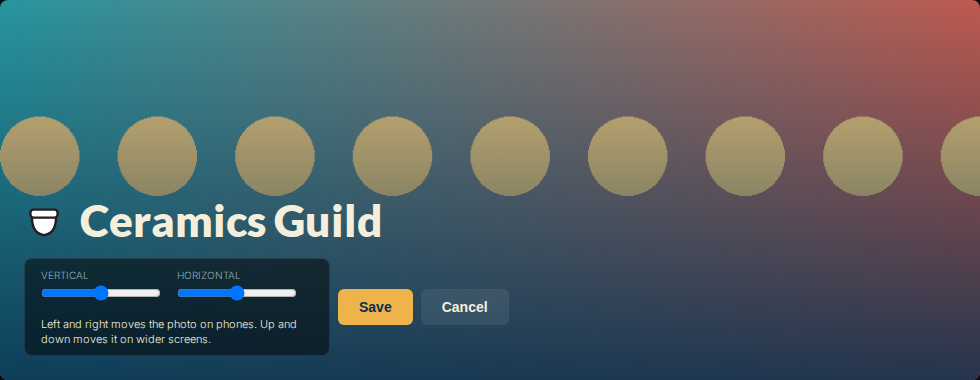
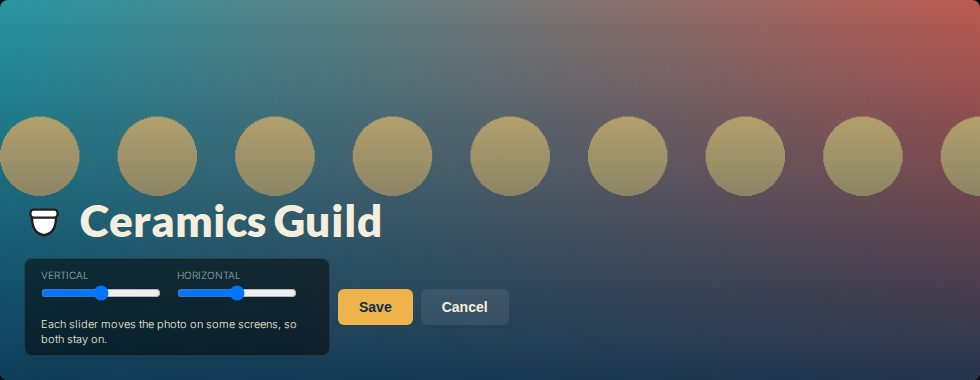
Say only what is always true, and guard the frame ranges
When both sliders stay on, the line now says each moves the photo on some screens:
a 4:3 photo moves up and down on most phones too, so naming phones was wrong. The
narrow bound is 0.25 on all three pages, since typed titles and intros make a phone
frame taller with no limit. A new e2e loads each page with long text at four widths,
on both hosts where it renders, and fails if a frame falls outside its stated range.

Claude-Session: fog-feature-round 2026-10-03

Changed region(s): [[0.0306, 0.8395, 0.3061, 0.9263]]

diff --git a/templates/classes/public/detail.html b/templates/classes/public/detail.html
@@ -67,12 +67,13 @@ appends and runs it on the first boosted arrival here (FRONTEND.md, Scripts unde
            alt="{{ offering.title }}">
       {% endwith %}
     {% elif offering.category.hero_image %}
-      {# Frame shapes this hero takes, width over height (heroPlacement): at most 2.38 (1240 by 520, .cp-detail__hero in cms-public.css), and a long title makes a phone frame taller (1.03 at 320px with a short one), so 0.5 to 2.5 keeps a margin both ways. #}
+      {# Frame shapes, width over height (heroPlacement), as measured: widest 2.38 (1240 by 520, .cp-detail__hero in cms-public.css); at 320px 1.03 with a short title and 0.65 with a 108 character title and 150 character subtitle, and a title runs to 255, so the floor is 0.25. tests/e2e/hero_placement_slack_spec.py checks these. #}
       <img class="cp-detail__hero-img cp-detail__hero-img--cover"
            src="{{ offering.category.hero_image.url }}"
            alt="{{ offering.category.name }}"
+           data-frame-min="0.25" data-frame-max="2.5"
            {% if can_edit_category %}
-           data-hero-img data-frame-min="0.5" data-frame-max="2.5"
+           data-hero-img
            :style="'object-position: ' + objectPosition"
            {% else %}
            style="object-position: {{ offering.category.hero_object_position }};"
@@ -188,7 +189,7 @@ appends and runs it on the first boosted arrival here (FRONTEND.md, Scripts unde
                 <span x-text="isLoading ? '...' : 'Adjust'"></span>
             </button>
 
-            {# Sliders. heroPlacement.measure() turns off a slider that moves nothing on any screen, and the line under them says where each one moves. #}
+            {# Sliders. heroPlacement.measure() turns off a slider that moves nothing on any screen, and the line under them says which are on and why. #}
             <div x-show="isAdjusting" x-cloak class="pl-hero-adjust" style="display:flex; align-items:center; gap:0.75rem; background:rgba(0,0,0,0.7); padding:6px 10px; border-radius:6px; border:1px solid rgba(255,255,255,0.2); backdrop-filter:blur(8px);">
                 <div style="display:flex; align-items:center; gap:8px;">
                     <label for="hero-adjust-y" style="font-size:9px; text-transform:uppercase; color:#96ACBB; font-weight:bold;">V</label>

diff --git a/templates/hub/help.html b/templates/hub/help.html
@@ -39,12 +39,13 @@ OrgInfoPage.intro_parts, and admins keep Edit this page / Adjust in the top corn
      })"
      {% endif %}>
     {% if page.banner_image %}
-    {# Frame shapes this hero takes, width over height (heroPlacement): at most 3.26 (1240 by 380, .pl-guild-hero in hub.css), and the intro makes a phone frame taller (0.68 at 320px on the guilds site), so 0.5 to 3.4 keeps a margin both ways. #}
+    {# Frame shapes, width over height (heroPlacement), as measured: widest 3.26 on the members site (1240 by 380, .pl-guild-hero in hub.css) and 2.98 on the guilds site; at 320px 0.79 with the default intro and 0.44 with a 400 character one, and the intro has no length limit, so the floor is 0.25. tests/e2e/hero_placement_slack_spec.py checks these. #}
     <img class="pl-guild-hero__img"
          src="{{ page.banner_image.url }}"
          alt="Past Lives Makerspace"
+         data-frame-min="0.25" data-frame-max="3.4"
          {% if can_edit %}
-         data-hero-img data-frame-min="0.5" data-frame-max="3.4"
+         data-hero-img
          :style="'object-position: ' + objectPosition"
          {% else %}
          style="object-position: {{ page.hero_object_position }};"
@@ -61,7 +62,7 @@ OrgInfoPage.intro_parts, and admins keep Edit this page / Adjust in the top corn
             </svg>
             <span x-text="isLoading ? '...' : 'Adjust'"></span>
         </button>
-        {# heroPlacement.measure() turns off a slider that moves nothing on any screen, and the line under them says where each one moves. #}
+        {# heroPlacement.measure() turns off a slider that moves nothing on any screen, and the line under them says which are on and why. #}
         <div x-show="isAdjusting" x-cloak class="pl-hero-adjust" style="background:rgba(0,0,0,0.5); padding:0.5rem 1rem; border-radius:8px; border:1px solid rgba(255,255,255,0.1);">
             <div style="display:flex; flex-direction:column; gap:2px;">
                 <label for="hero-adjust-y" style="font-size:10px; text-transform:uppercase; color:#96ACBB;">Vertical</label>

diff --git a/templates/hub/guild_detail.html b/templates/hub/guild_detail.html
@@ -39,12 +39,13 @@
      })"
      {% endif %}>
     {% if guild.banner_image %}
-        {# Frame shapes this hero takes, width over height (heroPlacement): at most 3.26 (1240 by 380, .pl-guild-hero in hub.css), and a long name makes a phone frame taller (0.75 at 320px), so 0.5 to 3.4 keeps a margin both ways. #}
+        {# Frame shapes, width over height (heroPlacement), as measured: widest 3.26 here (1240 by 380, .pl-guild-hero in hub.css) and 2.98 on the guilds site; at 320px 1.31 with a short name and 0.59 with a 100 character one, and a name runs to 255, so the floor is 0.25. tests/e2e/hero_placement_slack_spec.py checks these. #}
         <img class="pl-guild-hero__img"
              src="{{ guild.banner_image.url }}"
              alt="{{ guild.name }}"
+             data-frame-min="0.25" data-frame-max="3.4"
              {% if guild.banner_image and can_edit_this_guild %}
-             data-hero-img data-frame-min="0.5" data-frame-max="3.4"
+             data-hero-img
              :style="'object-position: ' + objectPosition"
              {% else %}
              style="object-position: {{ guild.hero_object_position }};"
@@ -81,7 +82,7 @@
                     <span x-text="isLoading ? '...' : 'Adjust'"></span>
                 </button>
 
-                {# Sliders. heroPlacement.measure() turns off a slider that moves nothing on any screen, and the line under them says where each one moves. #}
+                {# Sliders. heroPlacement.measure() turns off a slider that moves nothing on any screen, and the line under them says which are on and why. #}
                 <div x-show="isAdjusting" x-cloak class="pl-hero-adjust" style="background:rgba(0,0,0,0.5); padding:0.5rem 1rem; border-radius:8px; border:1px solid rgba(255,255,255,0.1);">
                     <div style="display:flex; flex-direction:column; gap:2px;">
                         <label for="hero-adjust-y" style="font-size:10px; text-transform:uppercase; color:#96ACBB;">Vertical</label>

diff --git a/static/js/hero_placement.js b/static/js/hero_placement.js
@@ -10,8 +10,10 @@
  * every screen, from a tall phone frame to a wide desktop one, so which axis is dead changes
  * with the screen. Each template states the range of frame shapes its CSS can produce
  * (data-frame-min and data-frame-max, width over height) and measure() compares the photo's
- * own shape with it: a slider is off only when it moves nothing on every screen, and when
- * both move somewhere why() says where each one does. The editor's own frame plays no part.
+ * own shape with it: a slider is off only when it moves nothing on every screen, and why()
+ * says so. Which screens each live slider moves it on depends on the photo (a 4:3 photo moves
+ * up and down on most phones too), so when both are on the line only says that each one moves
+ * it somewhere. The editor's own frame plays no part.
  */
 (function () {
     "use strict";
@@ -20,7 +22,7 @@
     const WHY = {
         x: "This photo already fits side to side on every screen, so only up and down moves it.",
         y: "This photo already fits top to bottom on every screen, so only left and right moves it.",
-        where: "Left and right moves the photo on phones. Up and down moves it on wider screens.",
+        both: "Each slider moves the photo on some screens, so both stay on.",
     };
 
     const registerComponent = () => {
@@ -107,7 +109,7 @@
                 if (!this.measured) { return ""; }
                 if (!this.xMoves) { return WHY.x; }
                 if (!this.yMoves) { return WHY.y; }
-                return WHY.where;
+                return WHY.both;
             },
 
             startAdjusting() {

diff --git a/static/css/components.css b/static/css/components.css
@@ -2059,8 +2059,8 @@
 }
 
 /* ===== Hero placement sliders (hero_placement.js: guild banner, Help Center banner, class page category hero) ===== */
-/* The bar (.pl-hero-adjust, hub.css) wraps so the line saying where each slider moves the
-   photo sits on its own row under the sliders. The line takes no width of its own (contain), so it wraps
+/* The bar (.pl-hero-adjust, hub.css) wraps so the line saying which sliders move the photo
+   sits on its own row under the sliders. The line takes no width of its own (contain), so it wraps
    inside the width the sliders give the bar instead of stretching it. The bar is dark in
    both themes, so the line is light in both. */
 .pl-hero-adjust {

diff --git a/tests/e2e/hero_placement_slack_spec.py b/tests/e2e/hero_placement_slack_spec.py
@@ -1,4 +1,4 @@
-"""End-to-end: the hero Adjust sliders say where each one moves the photo.
+"""End-to-end: the hero Adjust sliders turn off only when they move nothing on any screen.
 
 The guild banner, the Help Center banner and the class page's category hero are cover
 fitted, so in any one frame a photo overflows on one axis only. These frames are fluid and
@@ -7,8 +7,10 @@ phone frame moves a 2:1 photo sideways, a wide desktop frame moves it up and dow
 template states the frame shapes its CSS can produce (``data-frame-min`` and
 ``data-frame-max`` on the img) and ``hero_placement.js`` ``measure()`` compares the photo's
 shape with that range: a slider is disabled only when it moves nothing on every screen, and
-otherwise the line under the sliders says where each one moves. The editor's own screen
-plays no part. Only a browser decodes the photo and runs the component, so this drives the
+the line under the sliders says which are on and why. The editor's own screen plays no part.
+The ranges are copied by hand from the CSS, so the last block loads each page with long text
+at a phone width and past the content cap and checks the frame stays inside its range. Only
+a browser decodes the photo, lays out the frame and runs the component, so this drives the
 real page. Run with ``pytest -m e2e``.
 """
 
@@ -40,7 +42,7 @@ PHONE: ViewportSize = {"width": 390, "height": 844}
 
 X_DEAD = "This photo already fits side to side on every screen, so only up and down moves it."
 Y_DEAD = "This photo already fits top to bottom on every screen, so only left and right moves it."
-WHERE = "Left and right moves the photo on phones. Up and down moves it on wider screens."
+BOTH_ON = "Each slider moves the photo on some screens, so both stay on."
 
 
 def _png(name: str, width: int, height: int) -> ContentFile:
@@ -84,9 +86,9 @@ def describe_hero_placement_slack():
     def it_keeps_both_sliders_on_for_a_photo_that_moves_each_way_on_some_screen(
         live_server, page: Page, login_via_code, serve_media
     ):
-        # 2:1 sits inside the guild frame's range (0.5 to 3.4): a phone frame moves it sideways,
-        # a desktop frame up and down. Both stay on and the line says where each moves, the
-        # same on a desktop and a phone, because the editor's own frame plays no part.
+        # 2:1 sits inside the guild frame's range (0.25 to 3.4): a phone frame moves it sideways,
+        # a desktop frame up and down. Both stay on and the line says so, the same on a desktop
+        # and a phone, because the editor's own frame plays no part.
         guild = _guild(1000, 500)
         _sign_in_as_admin(login_via_code)
         for viewport in (DESKTOP, PHONE):
@@ -96,7 +98,7 @@ def describe_hero_placement_slack():
             down, across = _open_adjust(page)
             expect(down).to_be_enabled()
             expect(across).to_be_enabled()
-            expect(page.locator(WHY)).to_have_text(WHERE)
+            expect(page.locator(WHY)).to_have_text(BOTH_ON)
             # The line is tied to both sliders for keyboard and screen reader users.
             expect(down).to_have_attribute("aria-describedby", "hero-adjust-why")
             expect(across).to_have_attribute("aria-describedby", "hero-adjust-why")
@@ -121,10 +123,10 @@ def describe_hero_placement_slack():
     def it_turns_off_left_and_right_for_a_tall_photo_and_keeps_and_saves_its_saved_position(
         live_server, page: Page, login_via_code, serve_media
     ):
-        # 2:5 is narrower than the narrowest guild frame: width fitted everywhere, so left and
-        # right is off. The position saved before (20% across) still shows on the disabled
+        # 1:5 is narrower than the narrowest guild frame (0.25): width fitted everywhere, so
+        # left and right is off. The position saved before (20% across) still shows on the disabled
         # slider and rides the save untouched.
-        guild = _guild(400, 1000, hero_crop_x=20, hero_crop_y=50)
+        guild = _guild(300, 1500, hero_crop_x=20, hero_crop_y=50)
         _sign_in_as_admin(login_via_code)
         page.set_viewport_size(DESKTOP)
         page.goto(_guild_url(live_server, guild))
@@ -204,3 +206,86 @@ def describe_hero_placement_slack():
         expect(down).to_be_disabled()
         expect(across).to_be_enabled()
         expect(page.locator(WHY)).to_have_text(Y_DEAD)
+
+
+# Long content makes a phone frame taller (a narrower shape) than any default text would.
+LONG_GUILD_NAME = "The Portland Community Guild of Metalsmithing, Silversmithing, Lost Wax Casting and Enameling Arts"
+LONG_HELP_INTRO = (
+    "Guides to how the makerspace works, from booking an orientation and reserving a studio to paying a "
+    "late fee, plus parking and arrival, who to contact for what, the answers to the questions we get "
+    "asked most, and where to look when a tool is down, a class is cancelled or a key card stops working. "
+    "If you cannot find something here, ask in Discord and a volunteer will point you to the right page."
+)
+LONG_CLASS_TITLE = (
+    "Forge a Leaf Dish at the Anvil, Then Patina, Polish and Seal It for the Table in One Long Saturday Afternoon"
+)
+LONG_CLASS_SUBTITLE = (
+    "Pick Your October Time, Saturday or Sunday, Morning or Evening, Bring a Friend and Leave with a "
+    "Finished Leaf Dish of Your Own Design and Fresh Patina"
+)
+# A phone, the widest phone frame on the guild pages (the sidebar folds away below 900px),
+# and two desktops past the 1240px content cap.
+RANGE_WIDTHS = (320, 768, 1920, 2560)
+
+
+# The range rides every hero img, not only the editor's: on the guilds site an admin has no
+# Adjust bar, but visitors there see the same banner the saved position serves.
+RANGED_IMG = "img[data-frame-min]"
+
+
+def _frame_and_range(page: Page) -> tuple[float, float, float]:
+    """The hero img's shape (width over height) and the range its template states."""
+    shape, fmin, fmax = page.locator(RANGED_IMG).evaluate(
+        "img => [img.clientWidth / img.clientHeight, parseFloat(img.dataset.frameMin), parseFloat(img.dataset.frameMax)]"
+    )
+    return float(shape), float(fmin), float(fmax)
+
+
+def _assert_frames_in_range(page: Page, url: str, label: str) -> None:
+    for width in RANGE_WIDTHS:
+        page.set_viewport_size({"width": width, "height": 900})
+        page.goto(url)
+        page.wait_for_function(
+            f"() => {{ const img = document.querySelector('{RANGED_IMG}'); return !!(img && img.complete && img.naturalWidth); }}"
+        )
+        shape, fmin, fmax = _frame_and_range(page)
+        print(f"RANGE {label} {width}px shape {shape:.2f} range {fmin} to {fmax}")
+        assert fmin <= shape <= fmax, f"{label} at {width}px is {shape:.2f}, outside {fmin} to {fmax}"
+
+
+def describe_the_frame_range_each_template_states():
+    """Each template hand copies the shapes its CSS can give the hero; a CSS change that leaves
+    them stale (a new min-height, a wider column) fails here rather than misjudging a slider."""
+
+    def it_holds_for_the_guild_banner_with_a_long_name(live_server, page: Page, login_via_code, serve_media, settings):
+        guild = cast(Guild, GuildFactory(name=LONG_GUILD_NAME, banner_image=_png("range-banner.png", 1000, 500)))
+        _sign_in_as_admin(login_via_code)
+        _assert_frames_in_range(page, _guild_url(live_server, guild), "guild")
+        settings.GUILDS_HOSTS = [urlparse(live_server.url).hostname]
+        _assert_frames_in_range(page, _guild_url(live_server, guild), "guilds site guild")
+
+    def it_holds_for_the_help_center_banner_with_a_long_intro(
+        live_server, page: Page, login_via_code, serve_media, settings
+    ):
+        OrgInfoPageFactory(banner_image=_png("range-help.png", 1000, 500), intro=LONG_HELP_INTRO)
+        _sign_in_as_admin(login_via_code)
+        _assert_frames_in_range(page, f"{live_server.url}{reverse('hub_help')}", "help")
+        settings.GUILDS_HOSTS = [urlparse(live_server.url).hostname]
+        _assert_frames_in_range(page, f"{live_server.url}{reverse('hub_help')}", "guilds site help")
+
+    def it_holds_for_the_class_page_category_hero_with_a_long_title_and_subtitle(
+        live_server, page: Page, login_via_code, serve_media, settings
+    ):
+        category = CategoryFactory(hero_image=_png("range-category.png", 1000, 500))
+        offering = ClassOfferingFactory(
+            status=ClassOffering.Status.PUBLISHED,
+            category=category,
+            image="",
+            title=LONG_CLASS_TITLE,
+            slug="range-long-title",
+            subtitle=LONG_CLASS_SUBTITLE,
+        )
+        _sign_in_as_admin(login_via_code)
+        settings.PUBLIC_HOSTS = [urlparse(live_server.url).hostname]
+        url = f"{live_server.url}{reverse('classes:public_class_detail', kwargs={'slug': offering.slug})}"
+        _assert_frames_in_range(page, url, "class")
